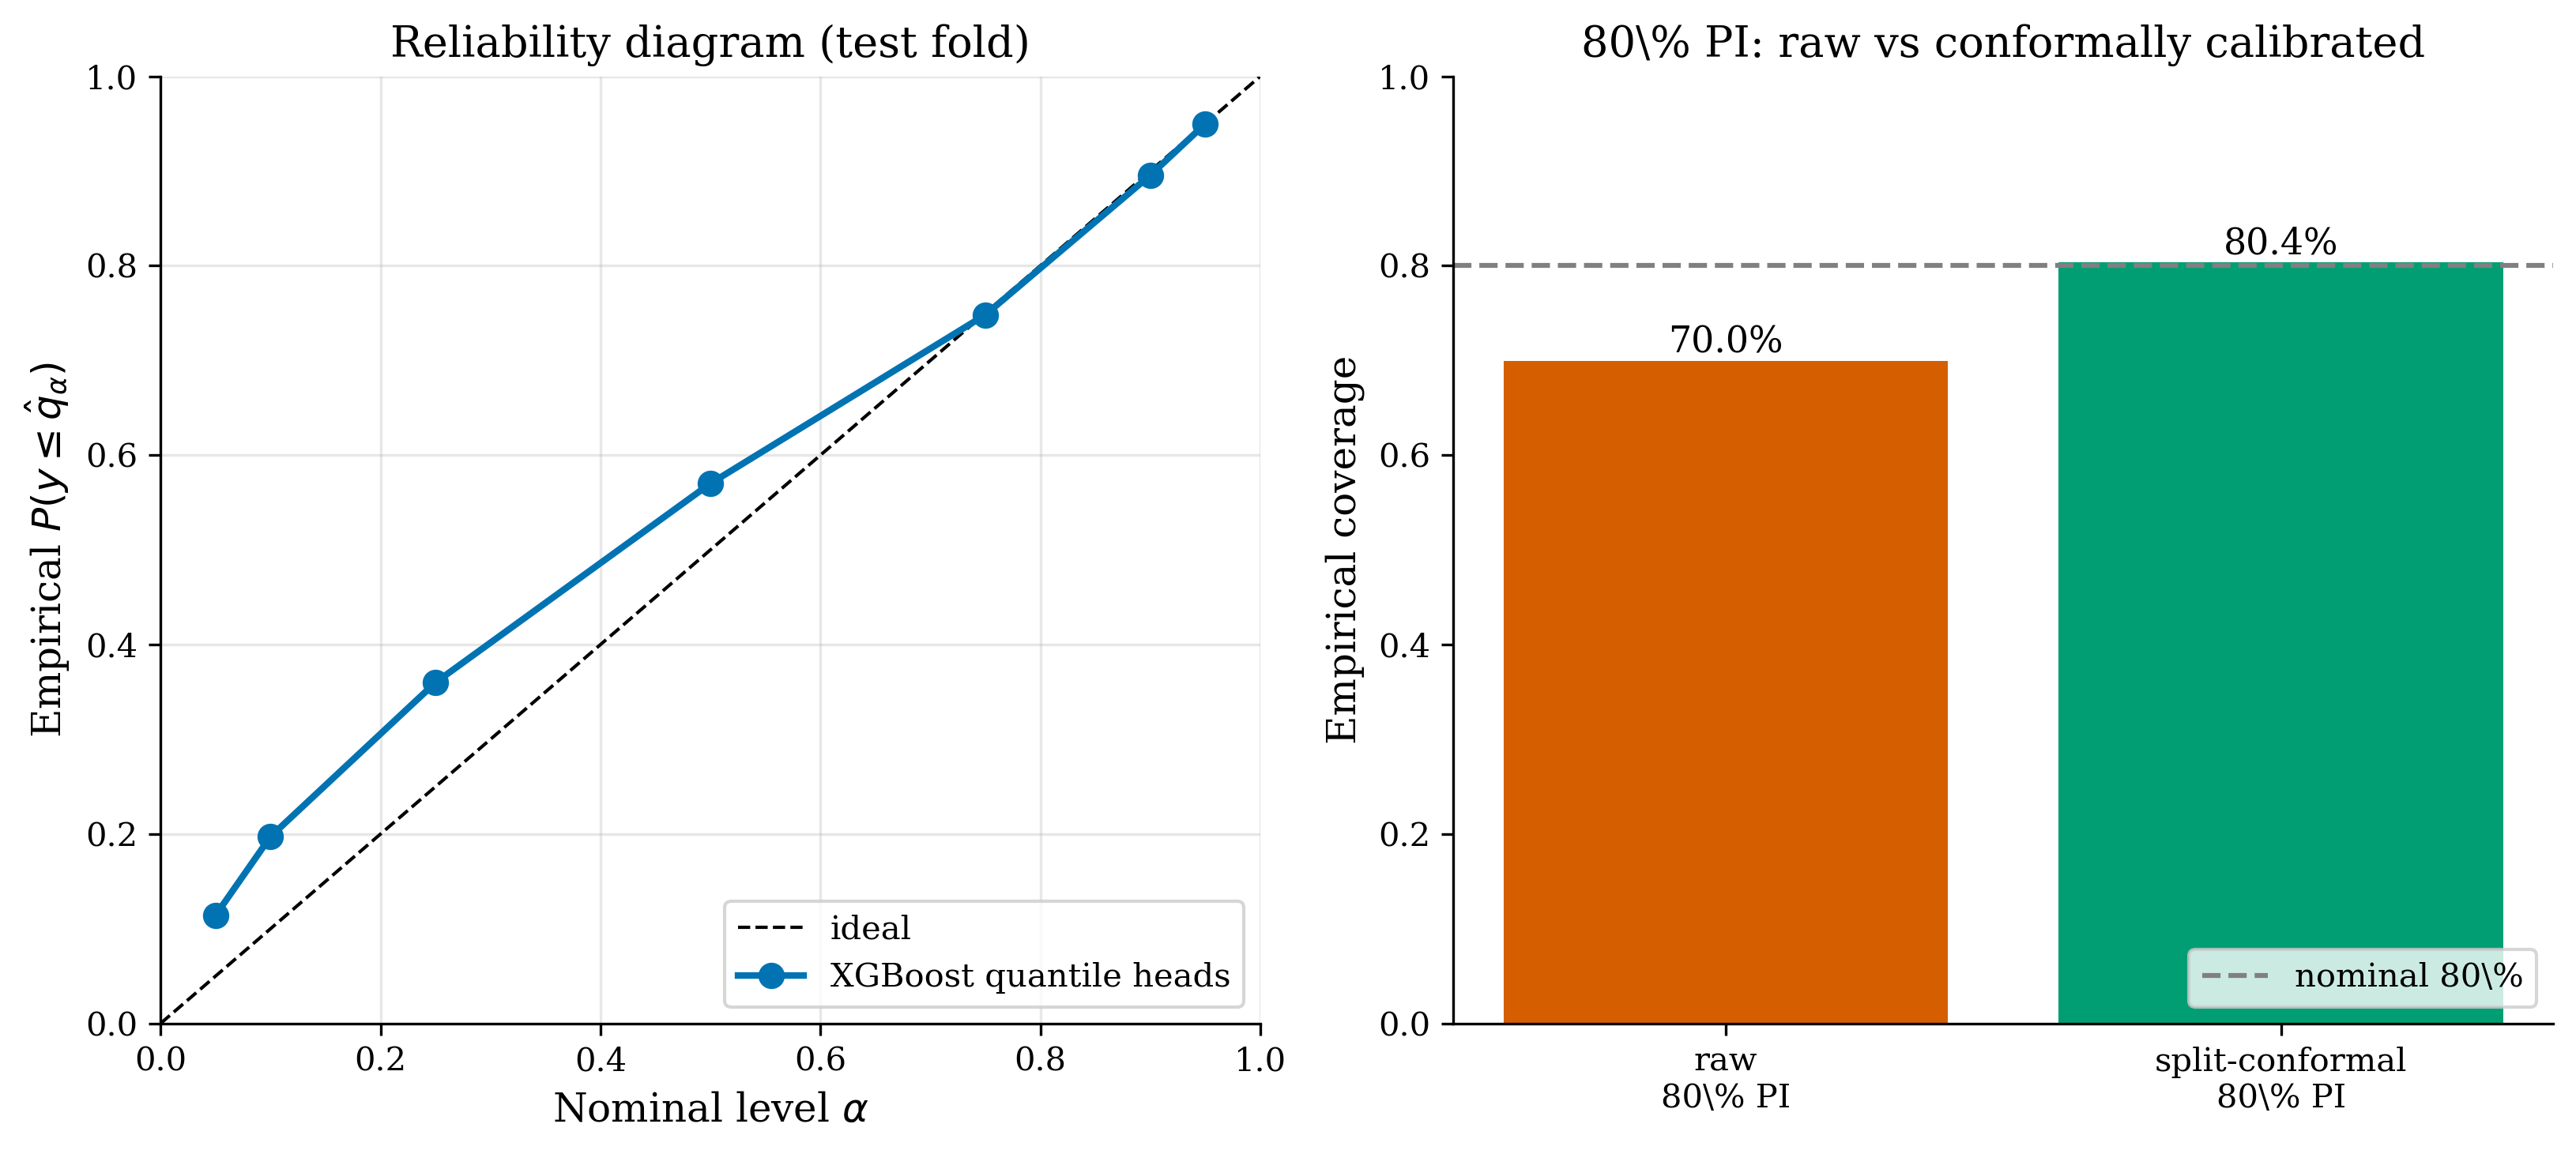
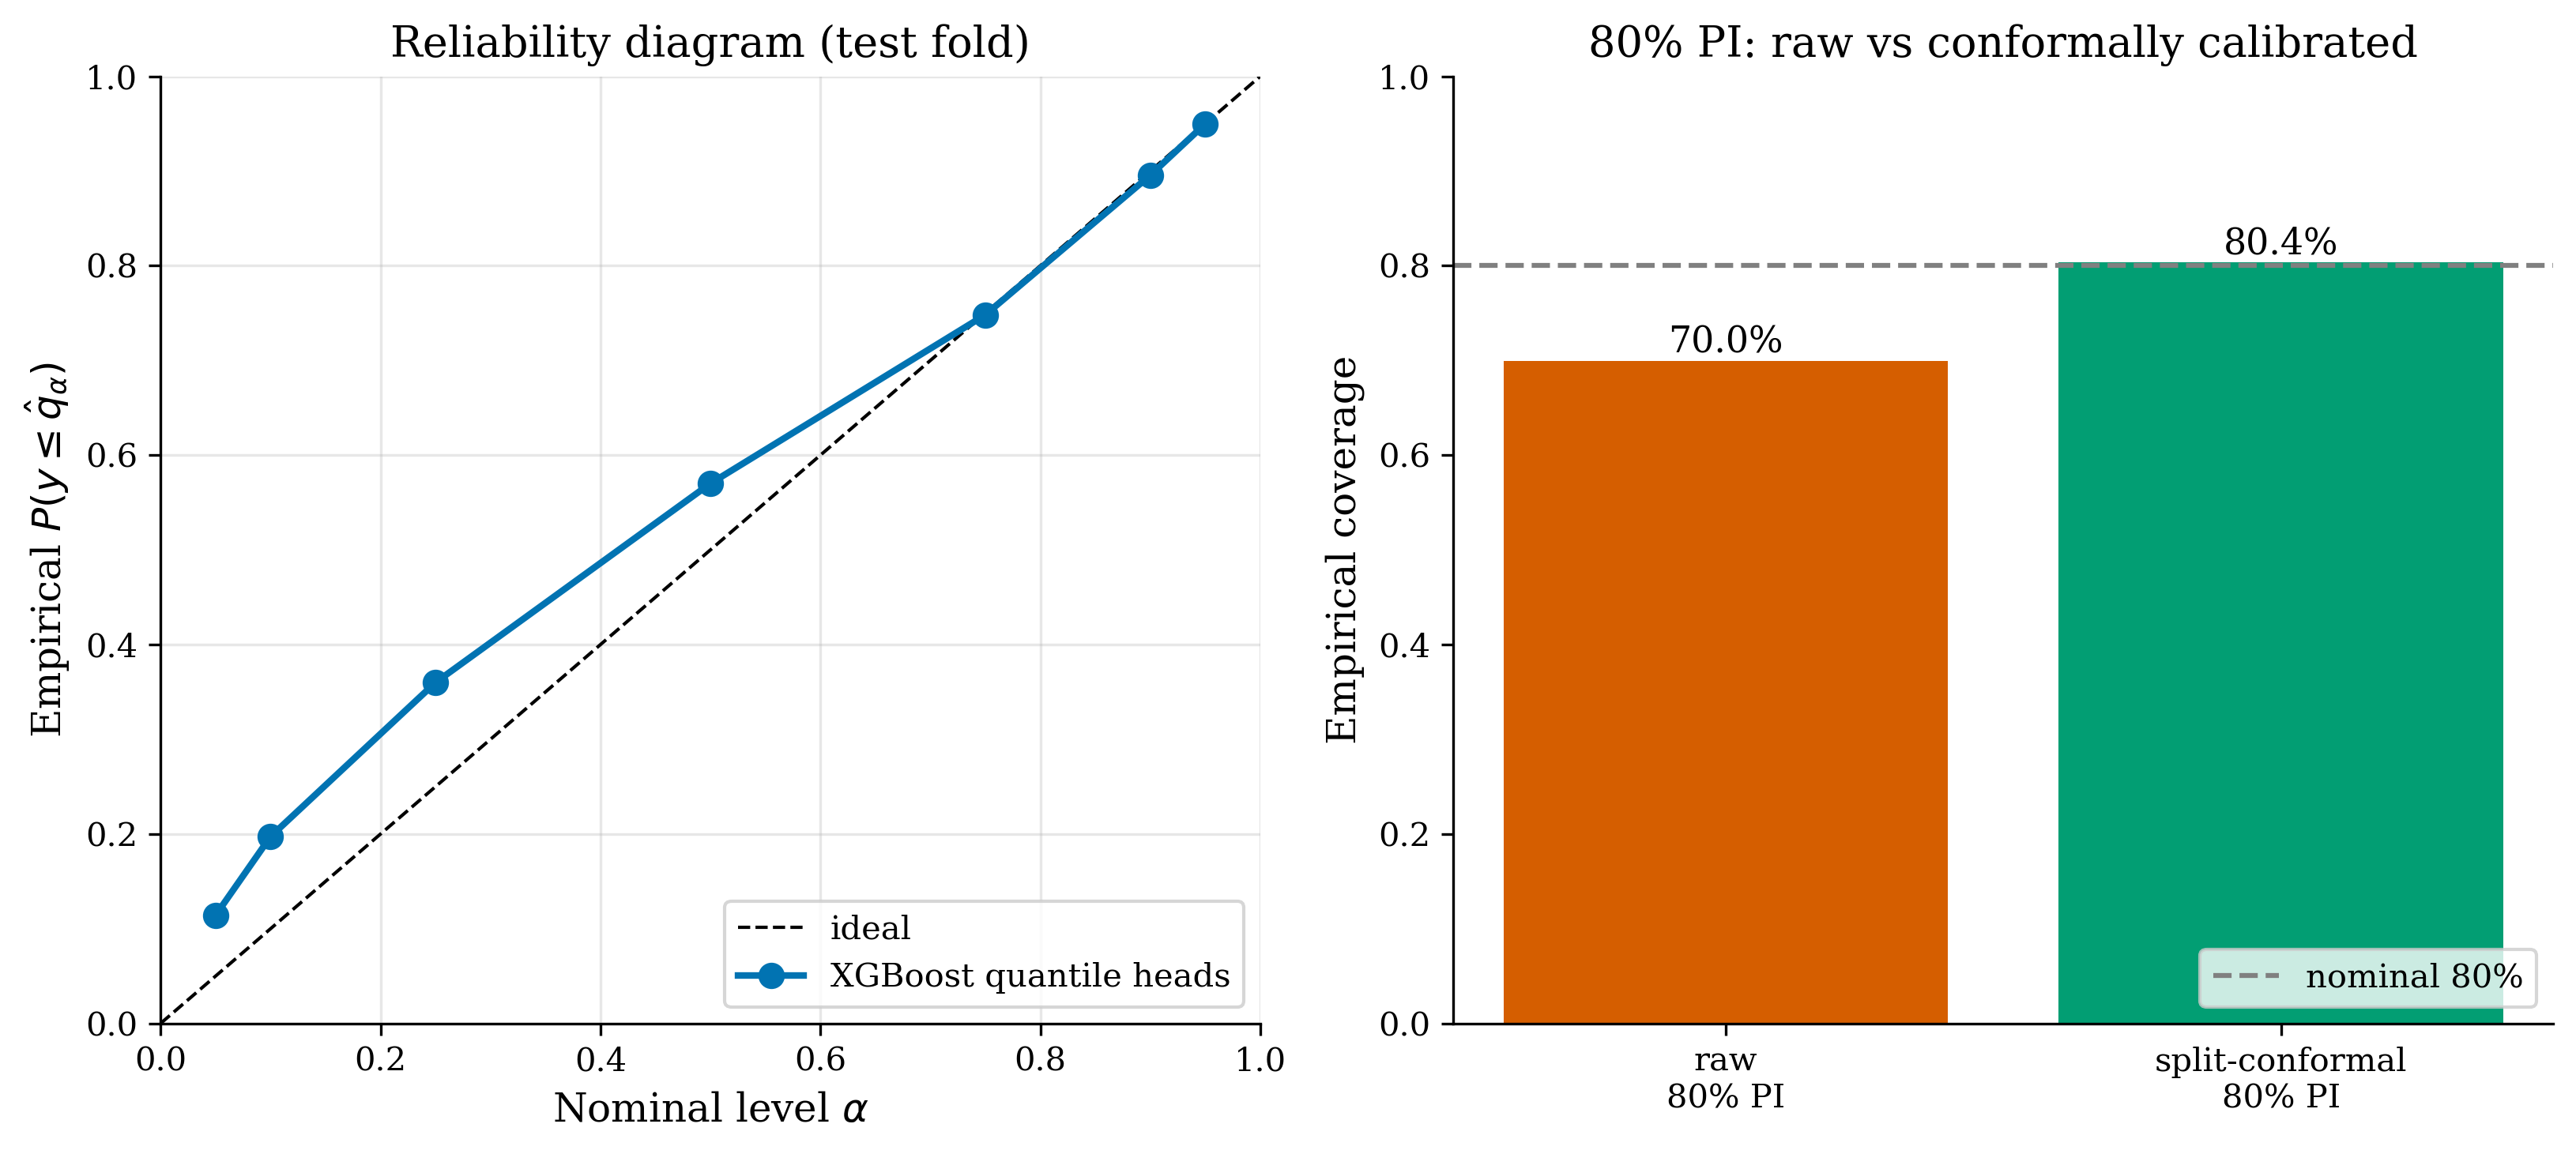
Fix gate-check, figure rendering, fleet-language tension
Reviewer flagged that the audit/gate scaffolding -- the kind of thing the
retrospective loop produces -- was the buggiest new code and untested.
Also two figure rendering defects, a paper-text tension between
"current fleet ~2,000" and the synthetic data's actual ~1,800-bus peak
utilization, and a missing one-sentence clarification on the conformal-
calibration scope.

gate_check_phase1.py -- now a real regression guard:
- log_file_created(path, size) -> log_file_created(path) so it matches
  audit.py:69. Two-arg call was the immediate crash on every run.
- 1500 < buses_needed < 2200 threshold previously used the OLD one-way
  tau formula (no doubling, no dwell), producing ~1,000 on real data
  and FAILing in silence. Now uses tau = 2*avg_trip + DWELL_MIN imported
  from deterministic_model, with range 1500-2100, and gets 1,799 on the
  current dataset.
- 300 <= len(routes_df) <= 380 was the old 340-route network size;
  updated to 400-700 to cover the real 544-route PMPML.
- demand_matrix_routes >= 300 -> >= 400 for the same reason.
- "PHASE 1 COMPLETE - all gates passed" no longer prints unconditionally.
  Added a _FAIL_COUNT counter via a _gate() wrapper around log_gate_check;
  on any FAIL the script prints to stderr and sys.exit(1).
- Wired into scripts/run_all.py phase1_data as a subprocess.run with
  check=True so a phase-1 FAIL halts the full pipeline.

paper/main.tex:
- Section 3.1: added explicit language separating B=2,000 (the agency's
[…]

diff --git a/scripts/gate_check_phase1.py b/scripts/gate_check_phase1.py
@@ -1,4 +1,11 @@
-"""Phase 1 gate checks. Run from project root."""
+"""Phase 1 gate checks (real-data PMPML instance).
+
+Run from project root:
+    python scripts/gate_check_phase1.py
+
+Used as a regression guard by scripts/run_all.py before downstream phases.
+Exits with code 1 if any gate FAILs so an outer pipeline halts early.
+"""
 import os
 import sys
 sys.path.insert(0, '.')
@@ -12,6 +19,20 @@ from src.audit import (
 from src.data_processing import (
     load_routes, load_demand, load_weather, load_demand_matrix,
 )
+from src.deterministic_model import DWELL_MIN
+
+
+# Aggregate FAIL count from log_gate_check via a wrapper. The bare audit
+# function does not return a status, so we count locally and report.
+_FAIL_COUNT = 0
+
+
+def _gate(name, condition, expected, actual):
+    """log_gate_check + local FAIL counter."""
+    global _FAIL_COUNT
+    log_gate_check(name, condition, expected, actual)
+    if not condition:
+        _FAIL_COUNT += 1
 
 
 def main():
@@ -23,67 +44,90 @@ def main():
     weather_df = load_weather()
     demand_matrix = load_demand_matrix()
 
-    # 1.1 routes
-    log_gate_check("routes_count", 300 <= len(routes_df) <= 380, "300-380", len(routes_df))
-    log_gate_check("routes_no_nulls",
-                   routes_df.isnull().sum().sum() == 0,
-                   "0 nulls", int(routes_df.isnull().sum().sum()))
-    log_gate_check("routes_positive_length",
-                   bool((routes_df['length_km'] > 0).all()),
-                   "all positive", int((routes_df['length_km'] > 0).sum()))
+    # 1.1 routes -- thresholds anchored to the real PMPML network size
+    # (544 routes from OpenCity after collapsing direction pairs).
+    _gate("routes_count",
+          400 <= len(routes_df) <= 700,
+          "400-700 (real PMPML ~544)",
+          len(routes_df))
+    _gate("routes_no_nulls",
+          routes_df.isnull().sum().sum() == 0,
+          "0 nulls", int(routes_df.isnull().sum().sum()))
+    _gate("routes_positive_length",
+          bool((routes_df['length_km'] > 0).all()),
+          "all positive", int((routes_df['length_km'] > 0).sum()))
 
-    # 1.2 fleet feasibility
-    buses_needed = int(np.ceil(routes_df['current_peak_freq']
-                               * routes_df['avg_trip_time_min'] / 60).sum())
-    log_gate_check("fleet_current_feasible",
-                   1500 < buses_needed < 2200,
-                   "1500-2200", buses_needed)
+    # 1.2 fleet feasibility -- corrected tau formula
+    # (tau = 2 * one_way_trip + DWELL_MIN), matching deterministic_model.
+    tau = 2.0 * routes_df['avg_trip_time_min'] + DWELL_MIN
+    buses_needed = int(np.ceil(routes_df['current_peak_freq'] * tau / 60).sum())
+    _gate("fleet_current_peak_in_range",
+          1500 < buses_needed < 2100,
+          "1500-2100 (peak utilization < B=2000 cap)",
+          buses_needed)
     log_metric("current_fleet_needed", buses_needed)
 
     # 1.3 demand
-    log_gate_check("demand_rows", len(demand_df) > 100000, ">100000 rows", len(demand_df))
-    log_gate_check("demand_no_negative",
-                   bool((demand_df['ridership'] >= 0).all()),
-                   "all non-negative", int((demand_df['ridership'] >= 0).sum()))
-    log_gate_check("demand_reasonable_max",
-                   demand_df['ridership'].max() < 5000,
-                   "max < 5000", round(float(demand_df['ridership'].max()), 1))
-    log_metric("demand_mean_ridership", round(float(demand_df['ridership'].mean()), 2))
+    _gate("demand_rows",
+          len(demand_df) > 100000,
+          ">100000 rows", len(demand_df))
+    _gate("demand_no_negative",
+          bool((demand_df['ridership'] >= 0).all()),
+          "all non-negative",
+          int((demand_df['ridership'] >= 0).sum()))
+    _gate("demand_reasonable_max",
+          demand_df['ridership'].max() < 5000,
+          "max < 5000",
+          round(float(demand_df['ridership'].max()), 1))
+    log_metric("demand_mean_ridership",
+               round(float(demand_df['ridership'].mean()), 2))
 
     # 1.4 weather
-    log_gate_check("weather_days", len(weather_df) >= 365, ">=365 days", len(weather_df))
-    log_gate_check("temp_range",
-                   weather_df['temperature_max'].max() < 50,
-                   "max < 50C", round(float(weather_df['temperature_max'].max()), 1))
+    _gate("weather_days",
+          len(weather_df) >= 365,
+          ">=365 days", len(weather_df))
+    _gate("temp_range",
+          weather_df['temperature_max'].max() < 50,
+          "max < 50C",
+          round(float(weather_df['temperature_max'].max()), 1))
 
-    # 1.5 demand matrix
-    log_gate_check("demand_matrix_routes",
-                   len(demand_matrix) >= 300,
-                   ">=300 routes", len(demand_matrix))
-    log_gate_check("demand_matrix_periods",
-                   demand_matrix.shape[1] >= 5,
-                   ">=5 periods", demand_matrix.shape[1])
+    # 1.5 demand matrix -- threshold matches the real network size.
+    _gate("demand_matrix_routes",
+          len(demand_matrix) >= 400,
+          ">=400 routes",
+          len(demand_matrix))
+    _gate("demand_matrix_periods",
+          demand_matrix.shape[1] >= 5,
+          ">=5 periods", demand_matrix.shape[1])
 
-    # 1.6 files on disk
+    # 1.6 files on disk -- log_file_created takes only `path`.
     for f in ['routes.csv', 'demand.csv', 'weather.csv', 'demand_matrix.csv']:
         path = f"data/processed/{f}"
         exists = os.path.exists(path)
-        log_gate_check(f"file_exists_{f}", exists, "True", exists)
+        _gate(f"file_exists_{f}", exists, "True", exists)
         if exists:
-            log_file_created(path, os.path.getsize(path))
+            log_file_created(path)
 
-    log_phase_end("PHASE_1_DATA", "PASS", {
+    status = "PASS" if _FAIL_COUNT == 0 else "FAIL"
+    log_phase_end("PHASE_1_DATA", status, {
         "routes": len(routes_df),
         "demand_rows": len(demand_df),
         "weather_days": len(weather_df),
         "fleet_needed": buses_needed,
+        "failed_gates": _FAIL_COUNT,
     })
 
+    if _FAIL_COUNT > 0:
+        print(f"\nPHASE 1 FAILED - {_FAIL_COUNT} gate(s) did not pass.",
+              file=sys.stderr)
+        print("  See audit.log for the offending gates.", file=sys.stderr)
+        sys.exit(1)
+
     print("\nPHASE 1 COMPLETE - all gates passed")
-    print(f"  Routes: {len(routes_df)}")
-    print(f"  Demand rows: {len(demand_df)}")
-    print(f"  Weather days: {len(weather_df)}")
-    print(f"  Current fleet needed: {buses_needed}")
+    print(f"  Routes:                {len(routes_df)}")
+    print(f"  Demand rows:           {len(demand_df)}")
+    print(f"  Weather days:          {len(weather_df)}")
+    print(f"  Current peak fleet:    {buses_needed}")
 
 
 if __name__ == "__main__":

diff --git a/src/visualization.py b/src/visualization.py
@@ -357,15 +357,61 @@ def fig_pareto_frontier(pareto_df):
 # 11c. Cost-wait frontier
 
 def fig_cost_wait_frontier(cost_df):
-    df = cost_df.dropna(subset=['total_wait_time']).sort_values('bus_periods_used')
+    """Cost-wait Pareto frontier with collision-avoiding annotations.
+
+    Multiple low-lambda points saturate the fleet at the same (x, y); we
+    collapse coincident points to a single annotation listing all lambdas
+    that land there. Saturation at the top-right and floor at the bottom-
+    left both get this treatment.
+    """
+    df = (cost_df.dropna(subset=['total_wait_time'])
+                  .sort_values('bus_periods_used')
+                  .reset_index(drop=True))
     fig, ax = plt.subplots(figsize=(8, 6))
     ax.plot(df['bus_periods_used'], df['total_wait_time'], 'o-',
             color=PALETTE[0], lw=2, ms=7)
+
+    # Group lambdas that share the same optimum (within 1 bus-period
+    # and 0.5 pass-hr) into a single annotation.
+    groups = []
     for _, row in df.iterrows():
-        ax.annotate(f"$\\lambda$={row['lambda_op']:g}",
-                    xy=(row['bus_periods_used'], row['total_wait_time']),
-                    xytext=(6, 4), textcoords='offset points', fontsize=8,
-                    color='gray')
+        placed = False
+        for g in groups:
+            if (abs(row['bus_periods_used'] - g['x']) < 1
+                    and abs(row['total_wait_time'] - g['y']) < 0.5):
+                g['lambdas'].append(row['lambda_op'])
+                placed = True
+                break
+        if not placed:
+            groups.append({'x': row['bus_periods_used'],
+                           'y': row['total_wait_time'],
+                           'lambdas': [row['lambda_op']]})
+
+    # Annotate each group once; alternate offset direction so labels do
+    # not run off the chart at extreme points.
+    for g in groups:
+        lambdas = sorted(g['lambdas'])
+        if len(lambdas) == 1:
+            label = f"$\\lambda$={lambdas[0]:g}"
+        else:
+            label = "$\\lambda \\in \\{" + ", ".join(f"{lam:g}" for lam in lambdas) + "\\}$"
+        # Push labels away from chart edges
+        x_frac = (g['x'] - df['bus_periods_used'].min()) / (
+            df['bus_periods_used'].max() - df['bus_periods_used'].min() + 1e-9)
+        if x_frac > 0.7:
+            xytext = (-10, 12)
+            ha = 'right'
+        elif x_frac < 0.15:
+            xytext = (10, -14)
+            ha = 'left'
+        else:
+            xytext = (6, 8)
+            ha = 'left'
+        ax.annotate(label,
+                    xy=(g['x'], g['y']),
+                    xytext=xytext, textcoords='offset points',
+                    ha=ha, fontsize=8, color='gray')
+
     ax.set_xlabel('Operator bus-periods used')
     ax.set_ylabel('Total rider waiting time (passenger-hours)')
     ax.set_title('Rider wait vs operator cost: Pareto frontier')
@@ -398,15 +444,15 @@ def fig_pi_reliability(reliability_df, test_predictions):
         cal = float(((p['actual'] >= p['q10_cal']) & (p['actual'] <= p['q90_cal'])).mean())
     else:
         cal = raw
-    bars = axes[1].bar(['raw\n80\\% PI', 'split-conformal\n80\\% PI'],
+    bars = axes[1].bar(['raw\n80% PI', 'split-conformal\n80% PI'],
                        [raw, cal], color=[PALETTE[3], PALETTE[2]])
-    axes[1].axhline(0.80, ls='--', color='gray', label='nominal 80\\%')
+    axes[1].axhline(0.80, ls='--', color='gray', label='nominal 80%')
     for b, v in zip(bars, [raw, cal]):
         axes[1].text(b.get_x() + b.get_width() / 2, v, f"{v:.1%}",
                      ha='center', va='bottom')
     axes[1].set_ylabel('Empirical coverage')
     axes[1].set_ylim(0, 1.0)
-    axes[1].set_title('80\\% PI: raw vs conformally calibrated')
+    axes[1].set_title('80% PI: raw vs conformally calibrated')
     axes[1].legend(loc='lower right')
 
     fig.tight_layout()

diff --git a/paper/main.tex b/paper/main.tex
@@ -242,11 +242,20 @@ Routes are anchored to one of thirteen depots: nine CNG depots
 (Aundh, Bhosari, Dhankawadi, Hadapsar, Katraj, Kothrud, Nigdi,
 Pimpri, Swargate) and four electric depots (Balewadi,
 Maan-Hinjewadi, Shewalewadi, Charholi) per published PMPML
-statistics. Per-depot fleet capacity is allocated proportional to
-each depot's minimum bus need (priority routes at the equity floor
-plus non-priority at $k = 1$) with $\pm 20\%$ jitter -- PMPML does
-not publish per-depot fleet counts and the alternative of an
-equal $1/|J|$ split produces infeasibilities, because priority
+statistics. The fleet cap used in the optimisation, $B = 2{,}000$,
+is the peak-deployable capacity reported by PMPML; the
+status-quo schedule encoded in the loaded route data uses
+approximately $1{,}800$ buses at peak (verified by
+\texttt{scripts/gate\_check\_phase1.py}: 1799 with the round-trip
+cycle time), leaving roughly 200 buses in reserve / maintenance /
+spare margin. The optimisation reports headline gains relative to
+this $\sim 1{,}800$-bus status quo, not relative to the
+theoretical $2{,}000$-bus saturation point. Per-depot fleet
+capacity is allocated proportional to each depot's minimum bus
+need (priority routes at the equity floor plus non-priority at
+$k = 1$) with $\pm 20\%$ jitter -- PMPML does not publish
+per-depot fleet counts and the alternative of an equal $1/|J|$
+split produces infeasibilities, because priority
 routes (defined below) cluster geographically.
 
 Operating hours span 06:00--23:00 and are discretised into five
@@ -490,7 +499,13 @@ applying a split-conformal correction
 fold raises empirical coverage to 80.4\%, essentially matching
 the nominal 80\% target. The reliability diagram
 (Figure~\ref{fig:pi}) summarises coverage at all seven trained
-quantile levels.
+quantile levels. The conformal correction is reported here as a
+forecasting-pipeline diagnostic; the calibrated bands are not
+fed into the stochastic / robust optimisation downstream, which
+uses the raw $q_{0.1} / q_{0.5} / q_{0.9}$ quantiles in
+\S\ref{sec:stoch}. Threading the conformal adjustment through to
+scenario generation is a clean extension we leave to future
+work.
 
 \begin{figure}[h]
 \centering

diff --git a/scripts/run_all.py b/scripts/run_all.py
@@ -33,6 +33,9 @@ def run_phase(label, fn):
 def phase1_data():
     import subprocess
     subprocess.run([sys.executable, "data/fetch_data.py"], check=True)
+    # Phase-1 gate: data exists, sizes / thresholds match the real PMPML
+    # instance. Halts the pipeline (sys.exit non-zero) on any FAIL.
+    subprocess.run([sys.executable, "scripts/gate_check_phase1.py"], check=True)
 
 
 def phase2_deterministic():